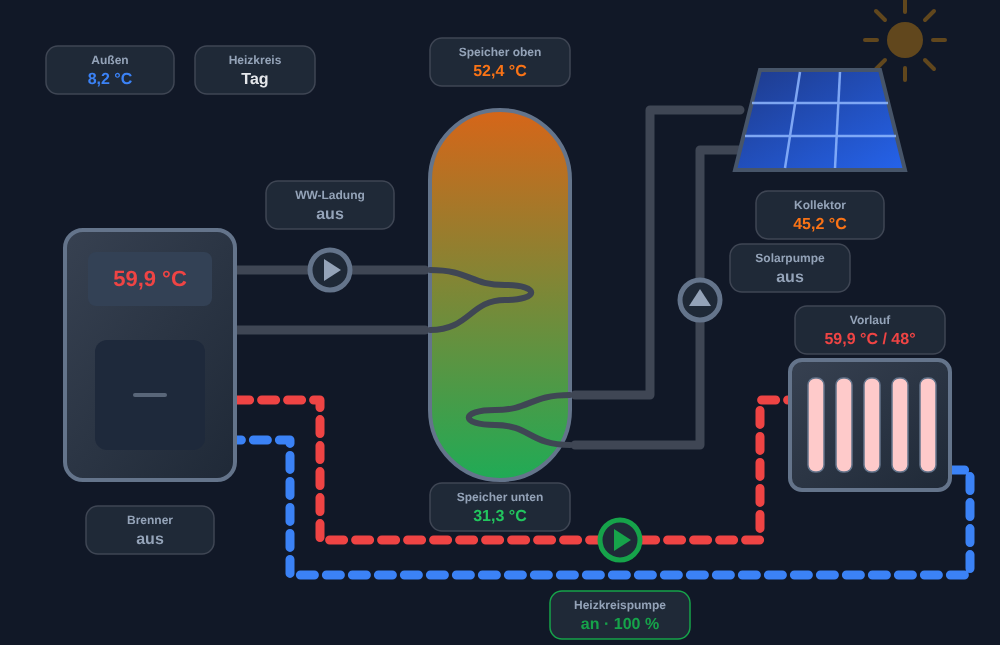
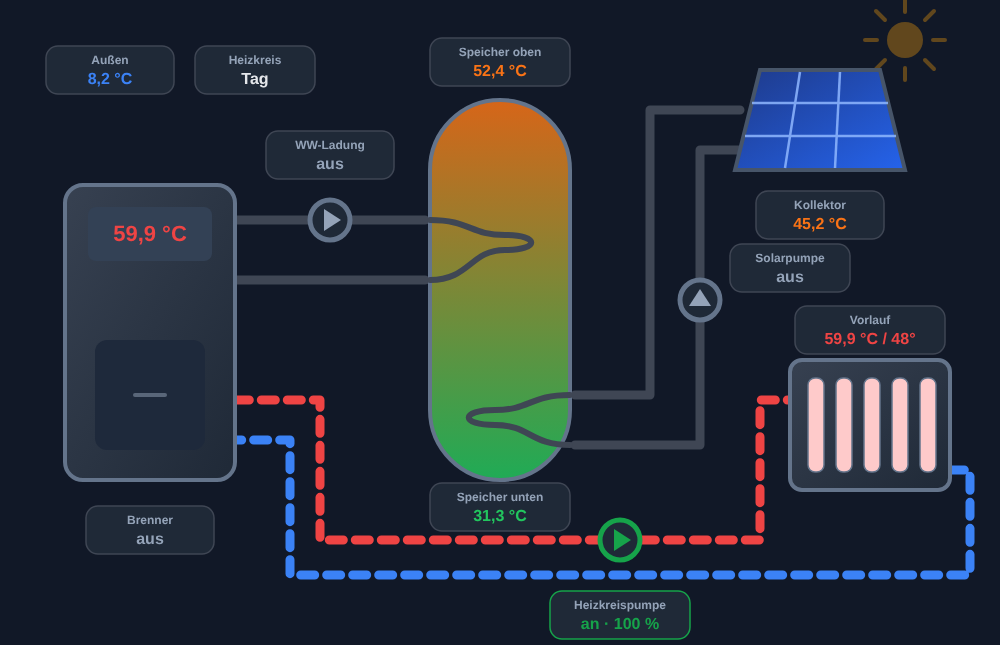
Taller boiler and tank, raise charging circuit, more room for heating element

diff --git a/dist/buderus-heat-card.js b/dist/buderus-heat-card.js
@@ -136,7 +136,7 @@ class BuderusHeatCard extends HTMLElement {
     const id = e.heater || e.heater_power;
     const x1 = 434;
     const x2 = 512;
-    const y = 362;
+    const y = 338;
     const color = on ? "#f97316" : "var(--bhc-off)";
     return `<g class="click" data-entity="${bhcEsc(id)}">
       <rect x="${x1 - 6}" y="${y - 9}" width="12" height="18" rx="3" fill="var(--bhc-stroke)"/>
@@ -218,8 +218,8 @@ class BuderusHeatCard extends HTMLElement {
       ${showSolar ? this._pipe("M 575 445 H 700 V 150 H 760", false, solarActive) : ""}
 
       <!-- Ladekreis: Kessel -> Speicher oben (links) -->
-      ${this._pipe("M 235 270 H 425", true, chargeActive)}
-      ${this._pipe("M 425 330 H 235", false, chargeActive)}
+      ${this._pipe("M 235 220 H 425", true, chargeActive)}
+      ${this._pipe("M 425 280 H 235", false, chargeActive)}
 
       <!-- Heizkreis: Kessel -> Heizkörper -->
       ${this._pipe("M 235 400 H 320 V 540 H 760 V 400 H 790", true, heatPump)}
@@ -243,17 +243,17 @@ class BuderusHeatCard extends HTMLElement {
 
       <!-- Speicher -->
       <g class="${e.tank_top ? "click" : ""}" data-entity="${bhcEsc(e.tank_top)}">
-        <rect x="430" y="110" width="140" height="370" rx="70" fill="url(#bhcTank)" stroke="var(--bhc-stroke)" stroke-width="4"/>
-        <path d="M 430 270 C 470 270 470 285 505 285 S 540 300 505 300 S 470 330 430 330" fill="none" stroke="${chargeActive ? "#ef4444" : "var(--bhc-off)"}" stroke-width="6" stroke-linecap="round"/>
+        <rect x="430" y="100" width="140" height="380" rx="70" fill="url(#bhcTank)" stroke="var(--bhc-stroke)" stroke-width="4"/>
+        <path d="M 430 220 C 470 220 470 235 505 235 S 540 250 505 250 S 470 280 430 280" fill="none" stroke="${chargeActive ? "#ef4444" : "var(--bhc-off)"}" stroke-width="6" stroke-linecap="round"/>
         ${showSolar ? `<path d="M 570 395 C 530 395 530 410 495 410 S 460 425 495 425 S 530 445 570 445" fill="none" stroke="${solarActive ? "#f59e0b" : "var(--bhc-off)"}" stroke-width="6" stroke-linecap="round"/>` : ""}
       </g>
       ${showHeater ? this._heaterSvg(heaterOn) : ""}
 
       <!-- Kessel -->
       <g class="${e.burner ? "click" : ""}" data-entity="${bhcEsc(e.burner)}">
-        <rect x="65" y="230" width="170" height="250" rx="18" fill="url(#bhcMetal)" stroke="var(--bhc-stroke)" stroke-width="4"/>
-        <rect x="88" y="252" width="124" height="54" rx="8" fill="#334155"/>
-        <text x="150" y="286" class="display" style="fill:${this._color(boilerT)}">${bhcEsc(this._temp("boiler_temp"))}</text>
+        <rect x="65" y="185" width="170" height="295" rx="18" fill="url(#bhcMetal)" stroke="var(--bhc-stroke)" stroke-width="4"/>
+        <rect x="88" y="207" width="124" height="54" rx="8" fill="#334155"/>
+        <text x="150" y="241" class="display" style="fill:${this._color(boilerT)}">${bhcEsc(this._temp("boiler_temp"))}</text>
         <rect x="95" y="340" width="110" height="110" rx="12" fill="#1e293b"/>
         ${flame}
       </g>
@@ -269,7 +269,7 @@ class BuderusHeatCard extends HTMLElement {
       </g>
 
       <!-- Pumpen -->
-      ${this._pump(330, 270, "charge_pump", chargeActive, 0)}
+      ${this._pump(330, 220, "charge_pump", chargeActive, 0)}
       ${this._pump(620, 540, "heating_pump", heatPump, 0)}
       ${showSolar ? this._pump(700, 300, "solar_pump", solarActive, -90) : ""}
 
@@ -277,14 +277,14 @@ class BuderusHeatCard extends HTMLElement {
       ${this._pill(110, 70, "outside", this._label("outside", "Außen"), this._temp("outside"), { color: this._color(this._num("outside")) })}
       ${this._pill(255, 70, "mode", this._label("mode", "Heizkreis"), modeTxt || "–", { w: 120 })}
       ${this._pill(150, 530, "burner_power", this._label("burner", "Brenner"), burner ? `an · ${this._pct("burner_power") || ""}` : "aus", { active: burner, color: burner ? "#ea580c" : "var(--bhc-muted)" })}
-      ${this._pill(330, 205, "charge_pump", this._label("charge", "WW-Ladung"), chargeActive ? "aktiv" : "aus", { active: chargeActive, color: chargeActive ? "#16a34a" : "var(--bhc-muted)" })}
+      ${this._pill(330, 155, "charge_pump", this._label("charge", "WW-Ladung"), chargeActive ? "aktiv" : "aus", { active: chargeActive, color: chargeActive ? "#16a34a" : "var(--bhc-muted)" })}
       ${this._pill(500, 62, "tank_top", this._label("tank_top", "Speicher oben"), this._temp("tank_top"), { w: 140, color: this._color(top) })}
       ${this._pill(500, 507, "tank_bottom", this._label("tank_bottom", "Speicher unten"), this._temp("tank_bottom"), { w: 140, color: this._color(bottom) })}
       ${showSolar ? this._pill(820, 215, "collector", this._label("collector", "Kollektor"), this._temp("collector"), { color: this._color(this._num("collector")) }) : ""}
       ${showSolar ? this._pill(790, 268, "solar_pump_mod", this._label("solar_pump", "Solarpumpe"), solarActive ? `an · ${this._pct("solar_pump_mod")}` : "aus", { w: 120, active: solarActive, color: solarActive ? "#16a34a" : "var(--bhc-muted)" }) : ""}
       ${this._pill(870, 330, "flow", this._label("flow", "Vorlauf"), `${this._temp("flow")}${this._num("flow_target") !== null ? ` / ${Math.round(this._num("flow_target"))}°` : ""}`, { w: 150, color: this._color(this._num("flow")) })}
       ${this._pill(620, 615, "heating_pump_mod", this._label("heating_pump", "Heizkreispumpe"), heatPump ? `an · ${this._pct("heating_pump_mod")}` : "aus", { w: 140, active: heatPump, color: heatPump ? "#16a34a" : "var(--bhc-muted)" })}
-      ${showHeater ? this._pill(352, 365, this._config.entities.heater ? "heater" : "heater_power", this._label("heater", "Heizstab"), heaterOn ? `an${this._power("heater_power") ? " · " + this._power("heater_power") : ""}` : "aus", { w: 128, active: heaterOn, color: heaterOn ? "#ea580c" : "var(--bhc-muted)" }) : ""}
+      ${showHeater ? this._pill(352, 338, this._config.entities.heater ? "heater" : "heater_power", this._label("heater", "Heizstab"), heaterOn ? `an${this._power("heater_power") ? " · " + this._power("heater_power") : ""}` : "aus", { w: 128, active: heaterOn, color: heaterOn ? "#ea580c" : "var(--bhc-muted)" }) : ""}
     </svg>`;
   }
 
